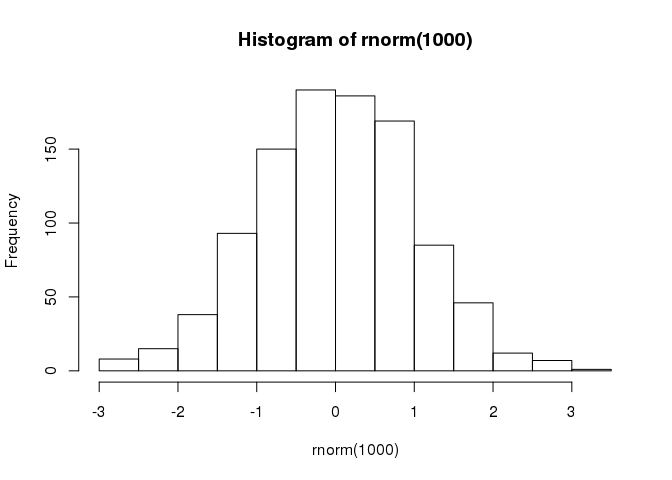
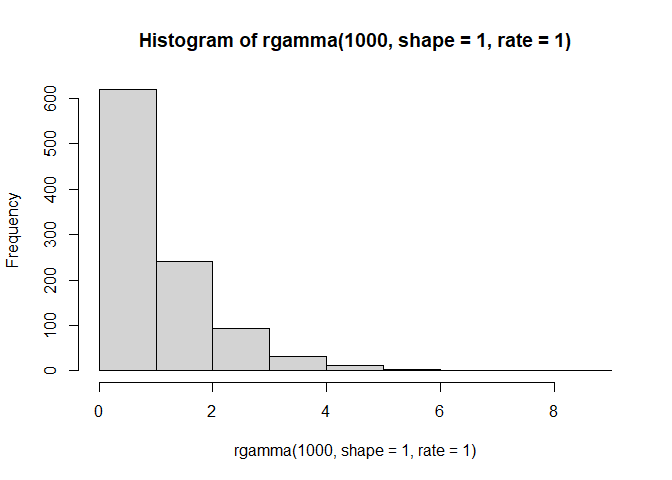
demo edits

diff --git a/homework-template.md b/homework-template.md
@@ -1,6 +1,5 @@
-Template
---------
+## Template
 
-    hist(rnorm(1000))
+    hist(rgamma(1000, shape=1, rate=1))
 
 ![](homework-template_files/figure-markdown_strict/unnamed-chunk-1-1.png)
